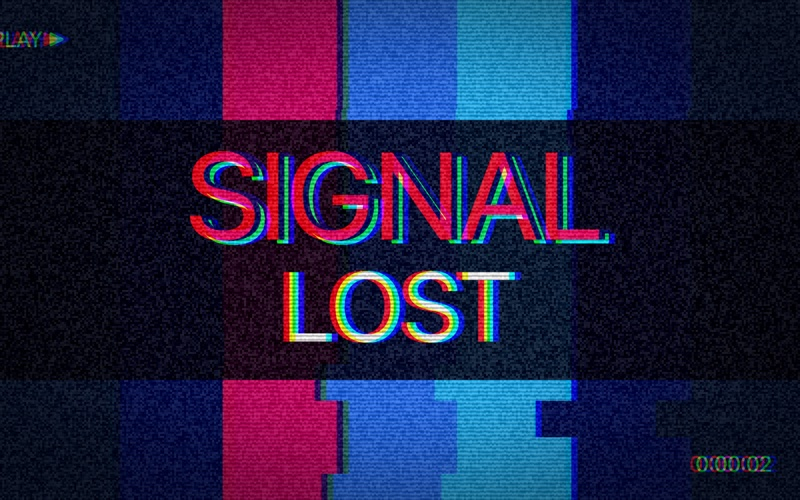
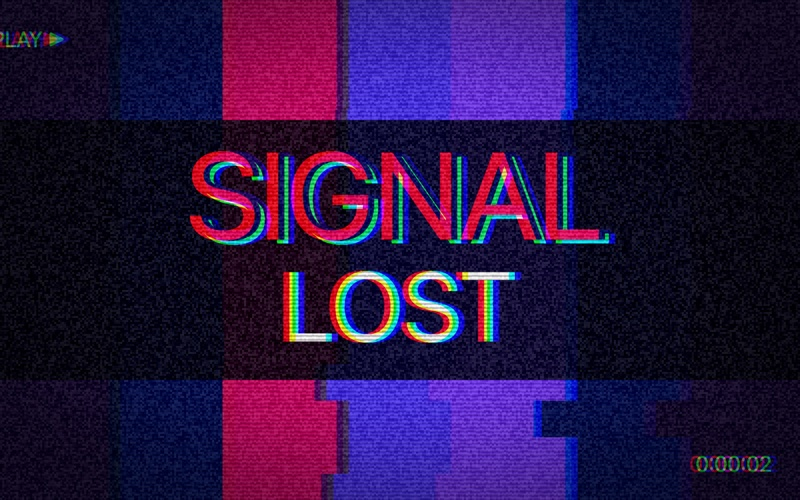
The neon sign and the glitched title have their own colours again: the demos are not what the rule is about

Changed region(s): [[0.375, 0.75, 0.7188, 1.0], [0.4062, 0.0, 0.7188, 0.24]]

diff --git a/demos/neon-sign/main.js b/demos/neon-sign/main.js
@@ -44,10 +44,10 @@ function neon(words, y, colour, size) {
 }
 
 function draw() {
-  background("#06080d")
+  background("#07060d")
   // A wall of bricks, almost too dark to see until the sign lights it.
   for (let row = 0; row < height / 22; row++) {
-    for (let col = -1; col < width / 60; col++) rect(col * 60 + (row % 2) * 30 + 2, row * 22 + 2, 56, 18, "#0f141c")
+    for (let col = -1; col < width / 60; col++) rect(col * 60 + (row % 2) * 30 + 2, row * 22 + 2, 56, 18, "#120f1c")
   }
   const size = Math.min(width / 4.6, height / 3.2)
   neon(signs[which][0], height * 0.32, "hotpink", size)

diff --git a/demos/glitch-title/main.js b/demos/glitch-title/main.js
@@ -24,7 +24,7 @@ function update(dt) {
 
 function draw() {
   // Bars of colour, as a television shows when it has nothing else.
-  const bars = ["#111d35", "#0c164f", "#ba1e68", "#4379fd", "#49b4fe", "#0c164f", "#111d35"]
+  const bars = ["#1d1135", "#0c164f", "#ba1e68", "#5643fd", "#7649fe", "#0c164f", "#1d1135"]
   for (let i = 0; i < bars.length; i++) rect(i * width / bars.length, 0, width / bars.length + 1, height, bars[i])
   rect(0, height * 0.24, width, height * 0.52, "rgba(5, 5, 16, 0.86)")
   const size = Math.min(width / 6.5, height / 3.6)

diff --git a/demos/glitch-title/main.py b/demos/glitch-title/main.py
@@ -31,7 +31,7 @@ def update(dt):
 
 def draw():
     # Bars of colour, as a television shows when it has nothing else.
-    bars = ["#111d35", "#0c164f", "#ba1e68", "#4379fd", "#49b4fe", "#0c164f", "#111d35"]
+    bars = ["#1d1135", "#0c164f", "#ba1e68", "#5643fd", "#7649fe", "#0c164f", "#1d1135"]
     for i in range(len(bars)):
         rect(i * width / len(bars), 0, width / len(bars) + 1, height, bars[i])
     rect(0, height * 0.24, width, height * 0.52, "rgba(5, 5, 16, 0.86)")
